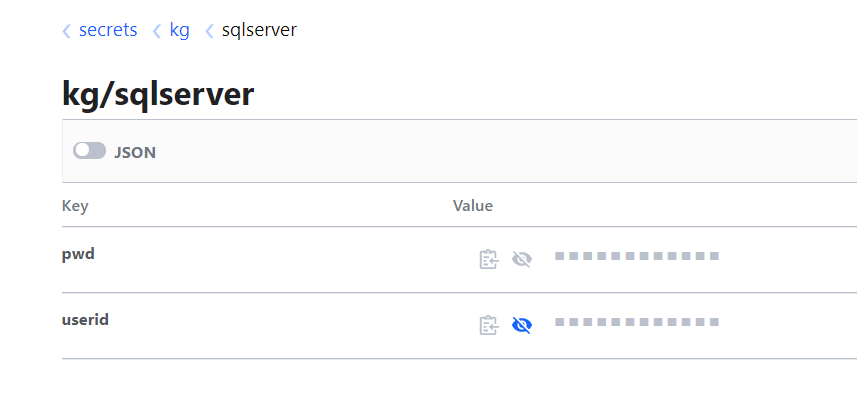
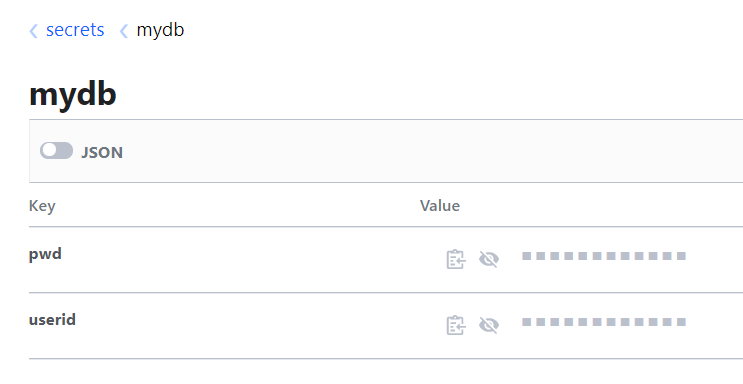
Updated files

diff --git a/Readme.md b/Readme.md
@@ -42,8 +42,8 @@ POST http://localhost:28083/connectors  <-- (Kafka connector endpoint)
    "config":{
       "connector.class":"io.confluent.connect.jdbc.JdbcSourceConnector",
       "connection.url":"jdbc:sqlserver://<DB SERVER>:<DB PORT>;database=<DB NAME>",
-      "connection.user":"${vault:/secrets/data/kg/sqlserver:userid}",
-      "connection.password":"${vault:/secrets/data/kg/sqlserver:pwd}",
+      "connection.user":"${vault:/secrets/data/mydb:userid}",
+      "connection.password":"${vault:/secrets/mydb:pwd}",
       "topic.prefix":"mysql-08-",
       "mode":"timestamp",
       "table.whitelist":"customer",
@@ -56,7 +56,7 @@ POST http://localhost:28083/connectors  <-- (Kafka connector endpoint)
 **Json properties:**
 > connection.url: Database connection string.
 
-> connection.user : Specify the secret path and the key value as per Vault ex: ${vault:/secrets/data/kg/sqlserver:userid}, here *userid* is the key name as per Vault,  */kg/sqlserver* is the path & *secrets* is the secret engine name as per Vault.
+> connection.user : Specify the secret path and the key value as per Vault ex: ${vault:/secrets/data/mydb:userid}, here *userid* is the key name as per Vault,  */mydb* is the path & *secrets* is the secret engine name as per Vault.
 
 ![Vault ](https://github.com/Prady-kn/HashicorpVaultpluginForConfluentKafkaConnect/raw/master/docs/vault_screen.PNG)
 
